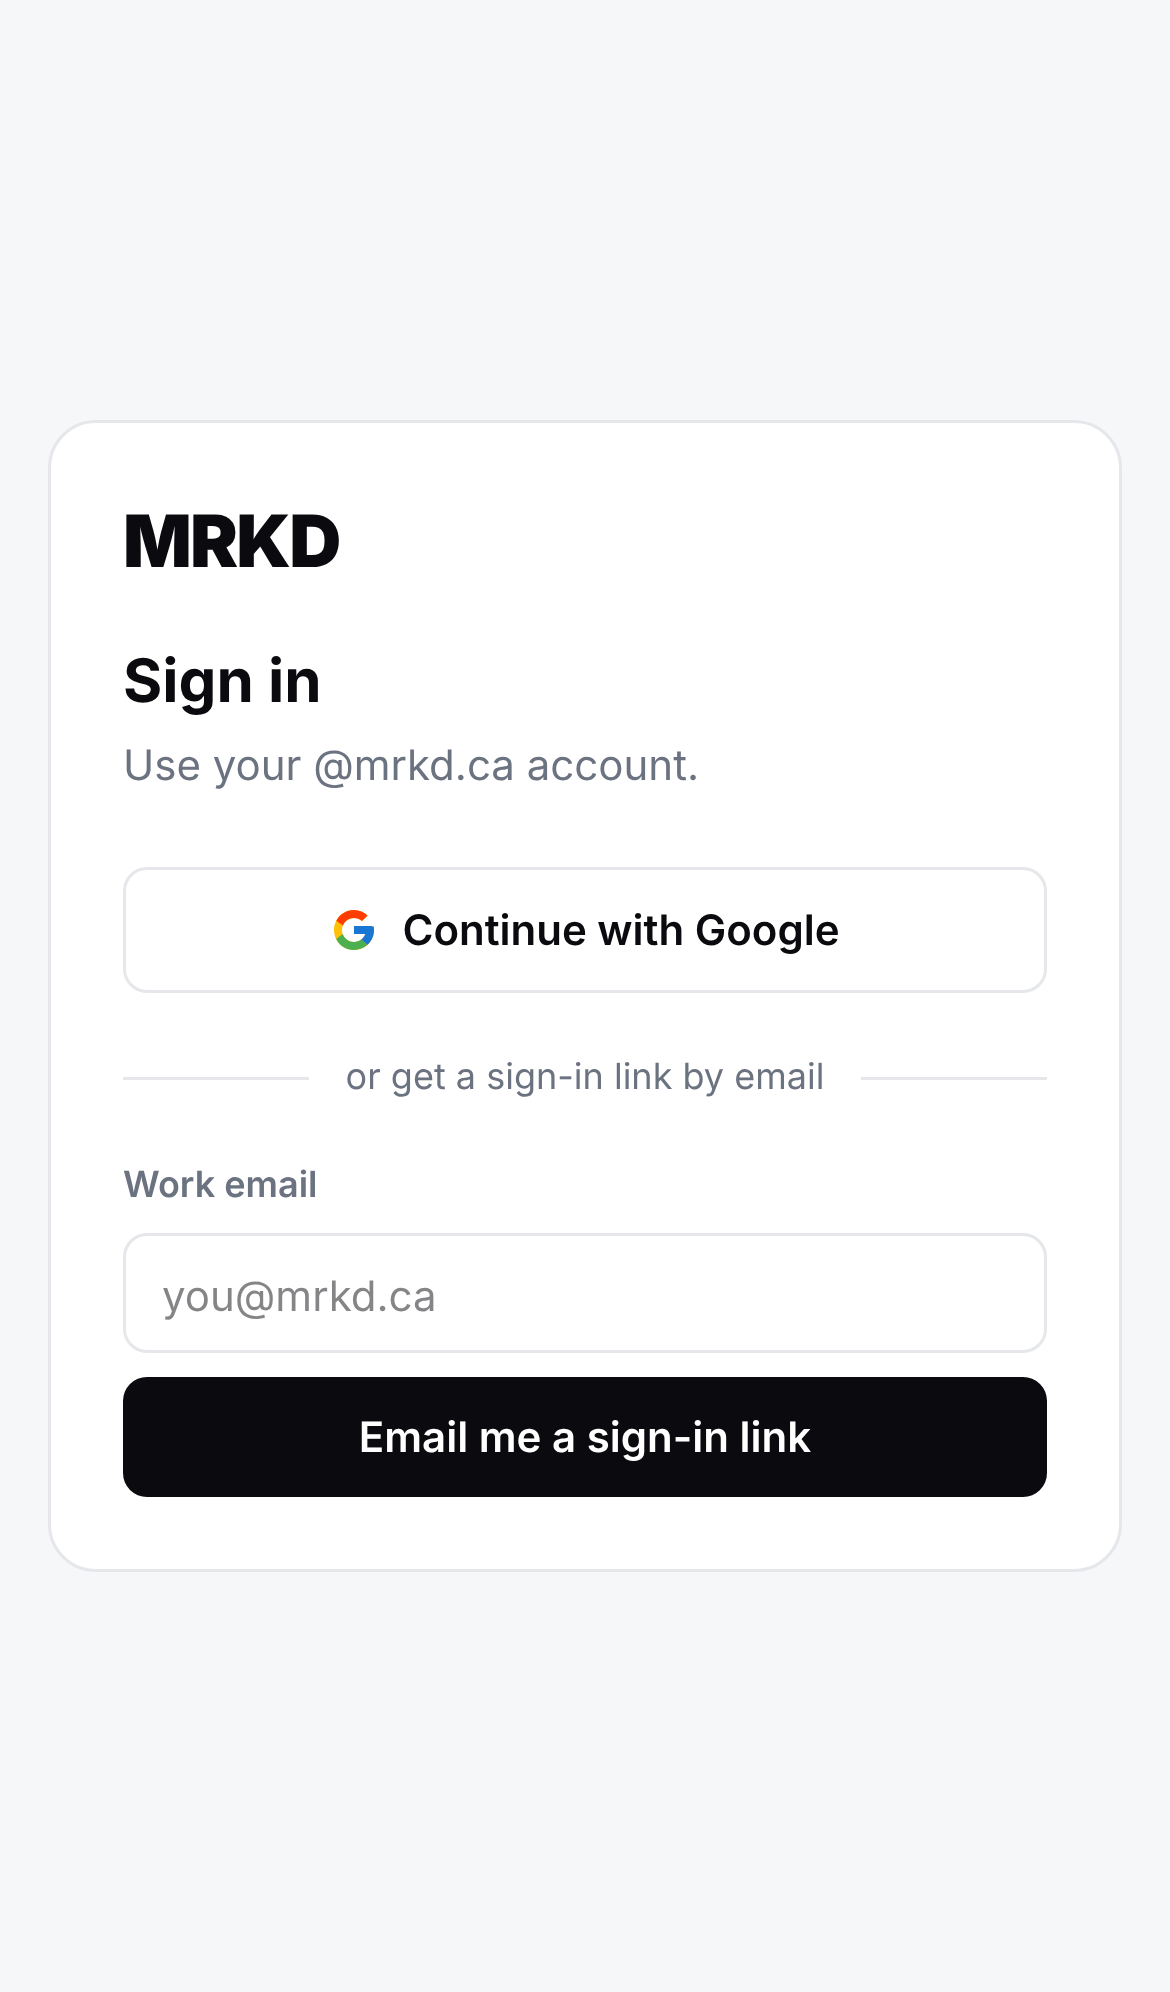
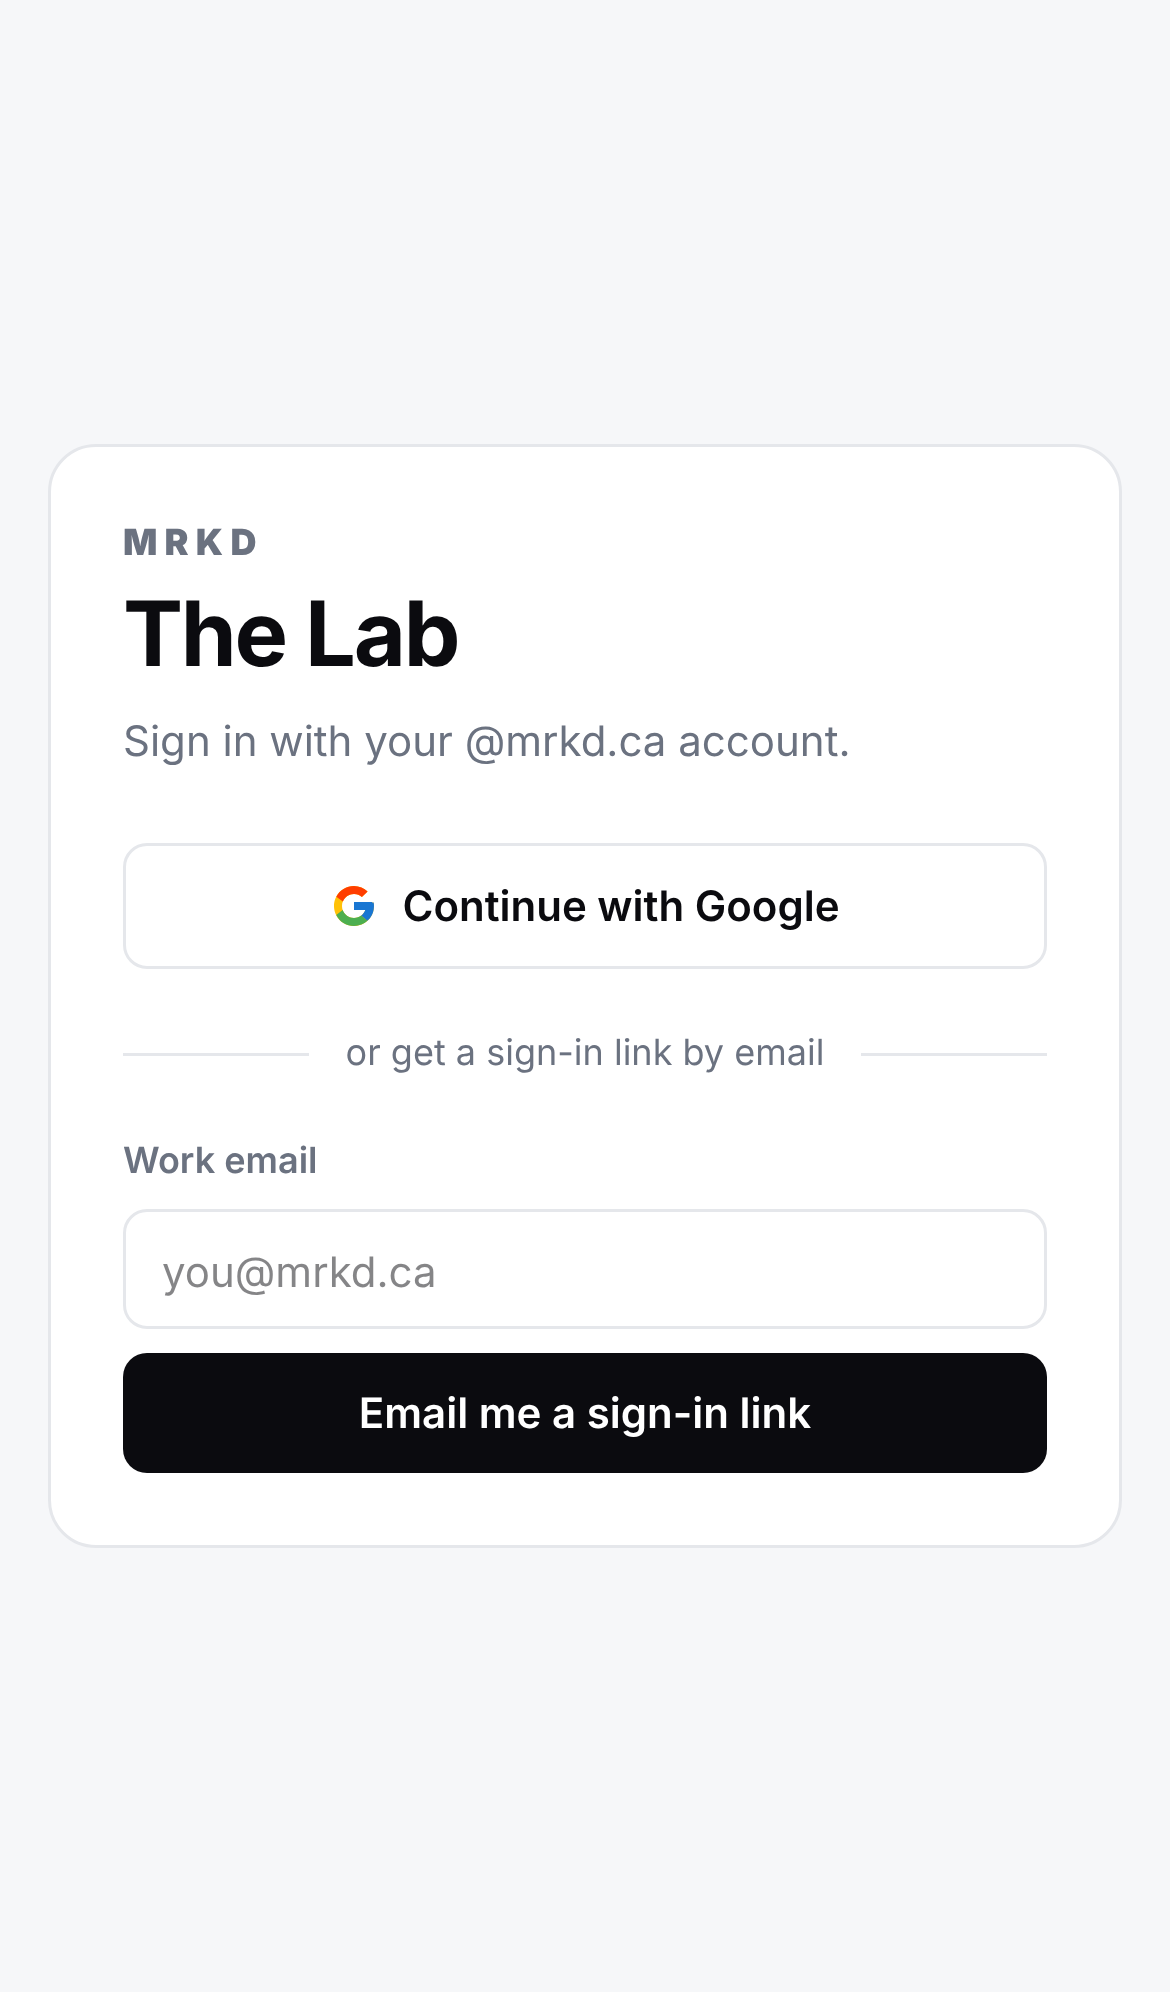
Name the app The Lab
Sign-in screen, browser tab and top bar show The Lab; Google sign-in setup
steps use the same name.

Claude-Session: https://claude.ai/code/session_01UjdRr8Mh5TDmZ78CiH5TLU

Changed region(s): [[0.0923, 0.5602, 0.8923, 0.7781], [0.0923, 0.249, 0.6154, 0.4046], [0.2769, 0.4357, 0.7385, 0.5602]]

diff --git a/web/src/app/Layout.tsx b/web/src/app/Layout.tsx
@@ -5,6 +5,7 @@ import { supabase } from '../lib/supabase'
 import { useData } from '../data/source'
 import { useAsync } from '../lib/useAsync'
 import { DESIGNS, useSession, type Design } from './session'
+import { APP_NAME } from './AuthGate'
 
 const NAV = [
   { to: '/insights', label: 'Insights', icon: BarChart3 },
@@ -27,7 +28,7 @@ export function Layout() {
       <div className={sidebar ? 'flex flex-1' : 'flex flex-1 flex-col'}>
         {sidebar ? <SideNav /> : <TopNav />}
         <main className="mx-auto w-full min-w-0 max-w-[1600px] flex-1 px-4 pb-24 pt-4 md:pb-8">
-          {sidebar && <div className="mb-2 text-lg font-black tracking-tight md:hidden">MRKD</div>}
+          {sidebar && <div className="mb-2 text-lg font-black tracking-tight md:hidden">MRKD <span className="text-sm font-semibold text-muted">{APP_NAME}</span></div>}
           <Outlet />
         </main>
       </div>
@@ -66,7 +67,10 @@ function TopNav() {
   return (
     <header className="sticky top-0 z-30 bg-header text-header-ink">
       <div className="mx-auto flex h-14 max-w-[1600px] items-center gap-6 px-4">
-        <span className="text-lg font-black tracking-tight">MRKD</span>
+        <span className="flex items-baseline gap-2">
+          <span className="text-lg font-black tracking-tight">MRKD</span>
+          <span className="text-sm font-semibold text-header-ink/70">{APP_NAME}</span>
+        </span>
         <nav className="hidden flex-1 gap-1 md:flex">
           {NAV.map(({ to, label }) => (
             <NavLink key={to} to={to} className={({ isActive }) => `rounded-md px-3 py-1.5 text-sm font-medium transition ${isActive ? 'bg-header-ink/15 text-header-ink' : 'text-header-ink/70 hover:text-header-ink'}`}>
@@ -84,6 +88,7 @@ function SideNav() {
   return (
     <aside className="sticky top-0 hidden h-screen w-56 shrink-0 flex-col bg-header px-3 py-5 text-header-ink md:flex">
       <span className="px-2 text-2xl font-black tracking-tight" style={{ fontFamily: 'var(--font-display)' }}>MRKD</span>
+      <span className="px-2 text-sm font-semibold text-header-ink/70">{APP_NAME}</span>
       <nav className="mt-6 flex flex-col gap-1">
         {NAV.map(({ to, label, icon: Icon }) => (
           <NavLink key={to} to={to} className={({ isActive }) => `flex items-center gap-2.5 rounded-xl px-3 py-2 text-sm font-semibold transition ${isActive ? 'bg-primary text-on-primary' : 'text-header-ink/70 hover:bg-header-ink/10 hover:text-header-ink'}`}>

diff --git a/web/src/app/AuthGate.tsx b/web/src/app/AuthGate.tsx
@@ -16,6 +16,8 @@ import { useData } from '../data/source'
 import { useAsync } from '../lib/useAsync'
 
 const STAFF_DOMAIN = 'mrkd.ca'
+/** The app's name, shown on the sign-in screen and in the top bar. */
+export const APP_NAME = 'The Lab'
 
 export function AuthGate({ children }: { children: ReactNode }) {
   const [session, setSession] = useState<Session | null | undefined>(supabase ? undefined : null)
@@ -82,9 +84,9 @@ function SignIn() {
 
   return (
     <Centered>
-      <div className="text-2xl font-black tracking-tight">MRKD</div>
-      <h1 className="mt-4 text-xl font-bold">Sign in</h1>
-      <p className="mt-1 text-sm text-muted">Use your @{STAFF_DOMAIN} account.</p>
+      <div className="text-xs font-black tracking-[0.2em] text-muted">MRKD</div>
+      <h1 className="mt-1 text-3xl font-bold tracking-tight" style={{ fontFamily: 'var(--font-display)' }}>{APP_NAME}</h1>
+      <p className="mt-2 text-sm text-muted">Sign in with your @{STAFF_DOMAIN} account.</p>
 
       <button
         onClick={google}

diff --git a/web/index.html b/web/index.html
@@ -4,7 +4,7 @@
     <meta charset="UTF-8" />
     <meta name="viewport" content="width=device-width, initial-scale=1.0, viewport-fit=cover" />
     <meta name="theme-color" content="#0b0b0f" />
-    <title>MRKD Platform</title>
+    <title>The Lab · MRKD</title>
   </head>
   <body>
     <div id="root"></div>

diff --git a/docs/setup/hosting-and-signin.md b/docs/setup/hosting-and-signin.md
@@ -22,10 +22,10 @@ Cloudflare builds the app from the GitHub repo on every push and serves it. It o
 
 Done once by someone with admin access to MRKD's Google Workspace.
 
-1. **console.cloud.google.com** (signed in with an @mrkd.ca admin account) → create a project **MRKD Platform**.
-2. **Google Auth Platform → Branding** (older menus: APIs & Services → OAuth consent screen): app name **MRKD Platform**, support email, then **Audience → Internal**. *Internal* means only @mrkd.ca Google accounts can sign in.
+1. **console.cloud.google.com** (signed in with an @mrkd.ca admin account) → create a project **The Lab**.
+2. **Google Auth Platform → Branding** (older menus: APIs & Services → OAuth consent screen): app name **The Lab** (what staff see on Google's sign-in screen), support email, then **Audience → Internal**. *Internal* means only @mrkd.ca Google accounts can sign in.
 3. **Clients → Create client** (older: Credentials → Create credentials → OAuth client ID):
-   - Application type: **Web application**, name **MRKD Platform**
+   - Application type: **Web application**, name **The Lab**
    - **Authorized redirect URI:** `https://mhayvuxqrlwyvalceerw.supabase.co/auth/v1/callback`
    - **Create**, then copy the **Client ID** and **Client secret**.
 4. **Supabase → Authentication → Sign In / Providers → Google**: turn on, paste the Client ID and Client secret, **Save**. The secret goes only there, never in chat.

diff --git a/docs/decisions.md b/docs/decisions.md
@@ -4,6 +4,7 @@ Why things are the way they are. Newest first. Add an entry whenever a real choi
 
 | Date | Decision | Why | Alternatives considered |
 |---|---|---|---|
+| 2026-11-09 | The app is called **The Lab** (sign-in screen, browser tab, top bar, Google sign-in screen) | Jordan's choice | – |
 | 2026-11-09 | **MRKD connector for Claude** (MCP on Supabase, OAuth per employee, read-only first) as Phase 1c | Employees query data with their own Claude login under the same permissions as the app | Sharing a database login with Claude; Supabase's developer MCP (too much access) |
 | 2026-11-09 | **Simple and organised style, no emojis** in the app or docs; plain labels, line icons only for navigation | Jordan's preference | Emoji labels as in Retool |
 | 2026-11-09 | **Suggestions per employee**: staff see only accounts assigned to them in GHL; owners/admins see all; enforced by RLS | Requested by Jordan | Everyone sees everything with a filter |

diff --git a/CHANGELOG.md b/CHANGELOG.md
@@ -2,6 +2,9 @@
 
 What changed, newest first. Every change to the platform adds a line here.
 
+## 2026-11-09: Named "The Lab"
+- Sign-in screen, browser tab and top bar now say The Lab; Google sign-in setup uses the same name.
+
 ## 2026-11-09: Sign-in and hosting setup
 - Sign-in screen: Continue with Google (restricted to @mrkd.ca) plus an email sign-in link; "not on the staff list" screen; sign out from the top bar. Migration 1400 links each login to the staff record by email (tested).
 - App now builds against the live Supabase project (`web/.env.production`, public values only), with `_redirects` and `.nvmrc` for Cloudflare Pages. Build settings and Google OAuth steps in [docs/setup/hosting-and-signin.md](docs/setup/hosting-and-signin.md).

diff --git a/README.md b/README.md
@@ -1,6 +1,6 @@
-# MRKD Platform
+# The Lab (MRKD Platform)
 
-MRKD Marketing's internal platform, replacing Retool. It lives inside MRKD's GoHighLevel sidebar, with a direct link for phones.
+**The Lab** is MRKD Marketing's internal platform, replacing Retool. It lives inside MRKD's GoHighLevel sidebar, with a direct link for phones.
 
 **Being built now:** Meta insights (every Retool KPI, on phone and desktop), per-account suggestions ("an ad has 1 lead at $120: turn it off?"), and ad approval with an AI check of copy, images and video subtitles. Clients View, Onboarding and the LeadLabz tools stay in Retool for now.
 
